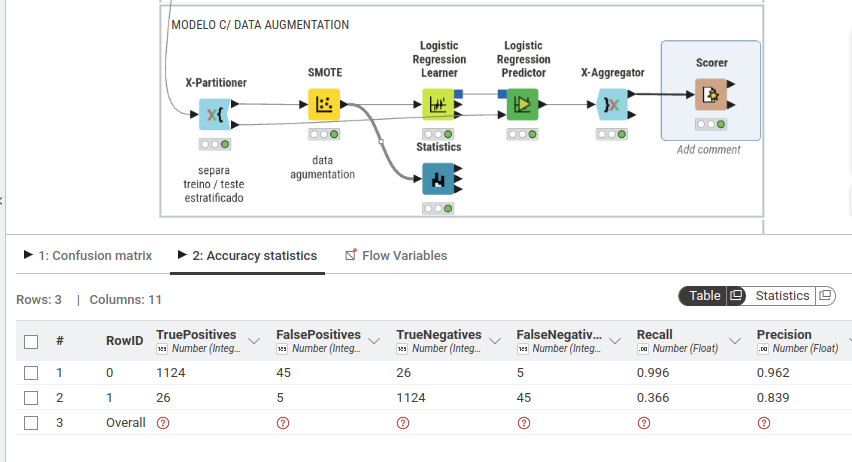
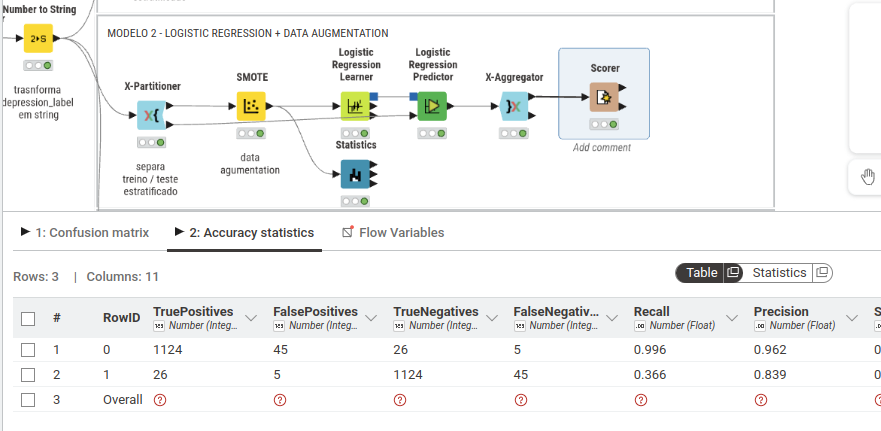
adicionado modelo random forest

diff --git a/README.MD b/README.MD
@@ -138,15 +138,13 @@ A coluna nível de dependência também tem dados bem distribuidos variando de 1
 
 ### 2.13. Column: Depression Label - Rótulo de depressão (Categórica binária)
 
-A coluna depression label é a coluna explicativa do nosso dataset e ela define se o estudante possui depressão ou não, se 0 = não tem depressão, se 1 = tem depressão. 
+A coluna depression label é a coluna explicativa do nosso dataset e ela define se o estudante possui depressão ou não, se 0 = não tem depressão, se 1 = tem depressão.
 
 ![column_depression_label](./assets/column_depression_label.png)
 
 As estatisticas completas das colunas e o histograma podem ser conferidas no knime:
 
 ![knime-statistics](./assets/knime-statistics.png)
-
-
 
 ### 2.14. Desbalanceamento da classe alvo
 
@@ -196,7 +194,7 @@ A separação dos dados em treino é teste foi feito para garantir que não haja
 
 ![knime-split-train-test](./assets/knime-split-train-test.png)
 
-### 3.2. Modelo 1 regressão linear
+### 3.2. Modelo 1 Regressão Logistica
 
 No modelo 1 para a classe 1 = com depressão o modelo obteve uma precisao de 61.3% e um recall de 67.9%.
 
@@ -207,7 +205,7 @@ No modelo 1 para a classe 1 = com depressão o modelo obteve uma precisao de 61.
 
 ![knime-model-lr](./assets/knime-model-lr.png)
 
-### 3.3. Modelo 2 regressão linear + data augmentation (SMOTE)
+### 3.3. Modelo 2 Regressão Logistica + Data Augmentation (SMOTE)
 
 ![knime-model-lr-smote](./assets/knime-model-lr-smote.png)
 
@@ -218,7 +216,7 @@ No modelo 2 para a classe 1 = com depressão o modelo obteve uma precisão de 83
 * ERROS: tivemos 45 FN (estudantes que tinham depressão e foram categorizados sem depressão)
 * ERROS: tivemos 5 FP (estudantes que não tinham depressão e foram categorizados com depressão)
 
-### 3.4. Comparação modelo 1 vs modelo 2
+### 3.4. Comparação Modelo 1 vs Modelo 2
 
 Ao comparar os dois modelos, observa-se um comportamento distinto entre eles. O Modelo 1 apresentou maior Recall, sendo capaz de identificar uma quantidade maior de estudantes com depressão. Como consequência, também gerou um número maior de falsos positivos, classificando alguns estudantes sem depressão como deprimidos. Entretanto, essa abordagem reduz a quantidade de casos reais de depressão que deixam de ser identificados, característica desejável em aplicações de triagem na área da saúde.
 
@@ -228,7 +226,7 @@ Considerando que o objetivo deste trabalho é identificar estudantes com depress
 
 Vamos agora fazer outros modelos.
 
-### 3.5. Modelo 3 decision tree
+### 3.5. Modelo 3 Decision Tree
 
 No modelo 3 para a classe 1 = com depressão o modelo obteve uma precisão de 93.5% e um recall de 100%
 
@@ -240,3 +238,16 @@ No modelo 3 para a classe 1 = com depressão o modelo obteve uma precisão de 93
 O modelo até o momento está sendo o melhor ele conseguiu categorizar 100% dos estudantes que tinham depressão como depressão, um recall excelente para a área da saude, e para os que não tinham depressão ele categorizou apenas 2 resultado incorretamente como depressão uma taxa baixissima de falsos positivos.
 
 ![knime-model-decision-tree](./assets/knime-model-decision-tree.png)
+
+### 3.6. Modelo 4 Random Forest
+
+No modelo 4 para a classe 1 = com depressão o modelo obteve uma precisão de 90.3% e um recall de 100%
+
+* ACERTOS: tivemos 28 TP (estudantes que tinham depressão e o modelo categorizou como depressão)
+* ACERTOS: tivemos 1.169 TN (estudantes que não tinham depressão e o modelo categorizou como não depressão)
+* ERROS: tivemos 0 FN (estudantes que tinham depressão e foram categorizados sem depressão)
+* ERROS: tivemos 3 FP (estudantes que não tinham depressão e foram categorizados com depressão)
+
+O modelo 4 assim como o 3 obteve um excelente resultado de recall e de precisão com uma diferença de apenas 1 TP e 1 FP entre eles, pode ser dizer que os modelos tiveram resultados bem semelhantes, o modelo 4 pelo seu método de classificação e generalização e por ser menos sucetivel a overfiting seria uma escolha um pouco mais segura do que o decision tree até o momento.
+
+![knime-model-random-forest](./assets/knime-model-random-forest.png)